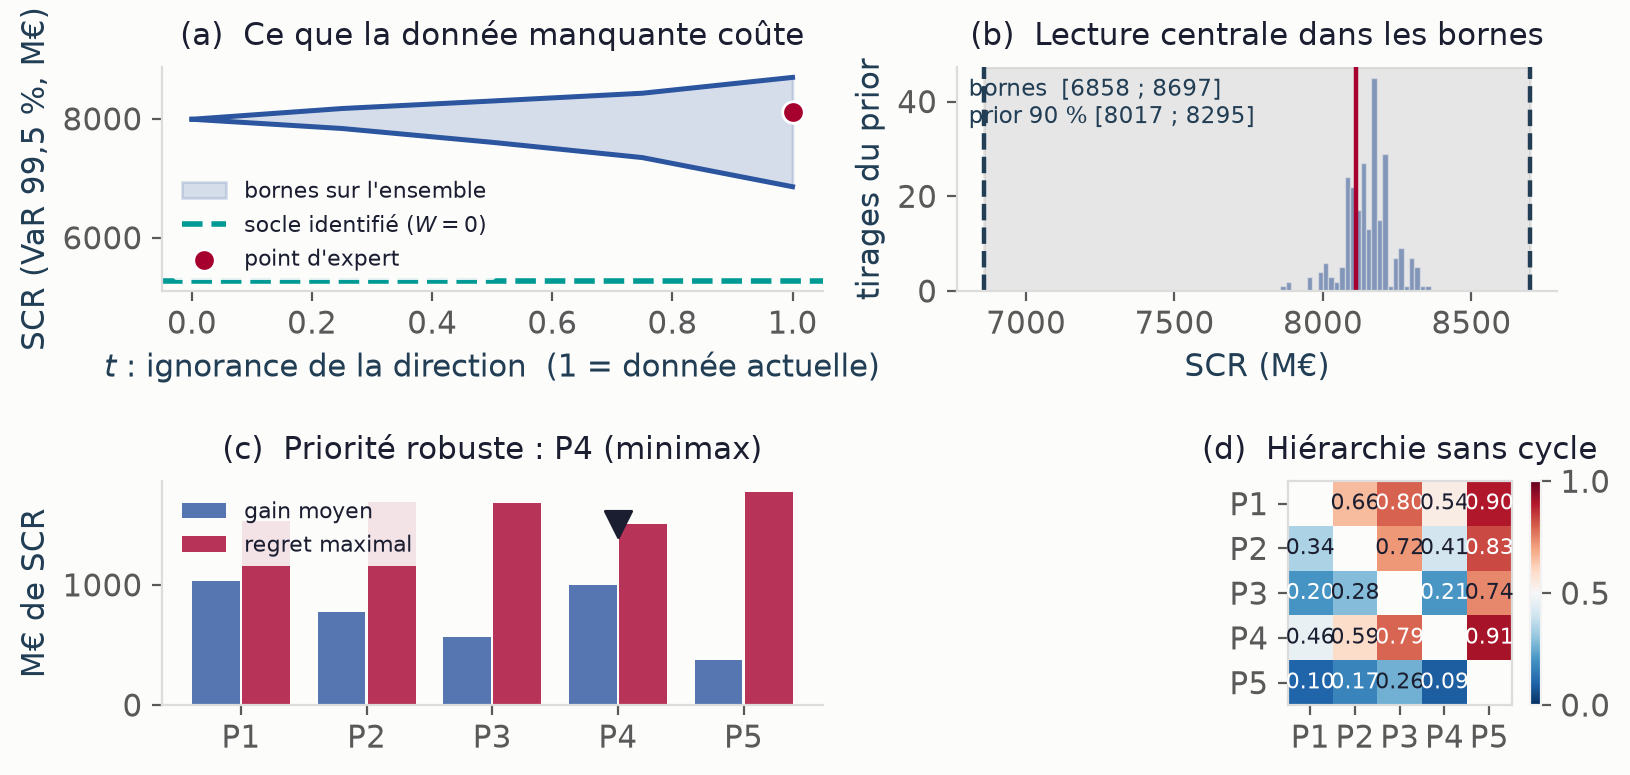
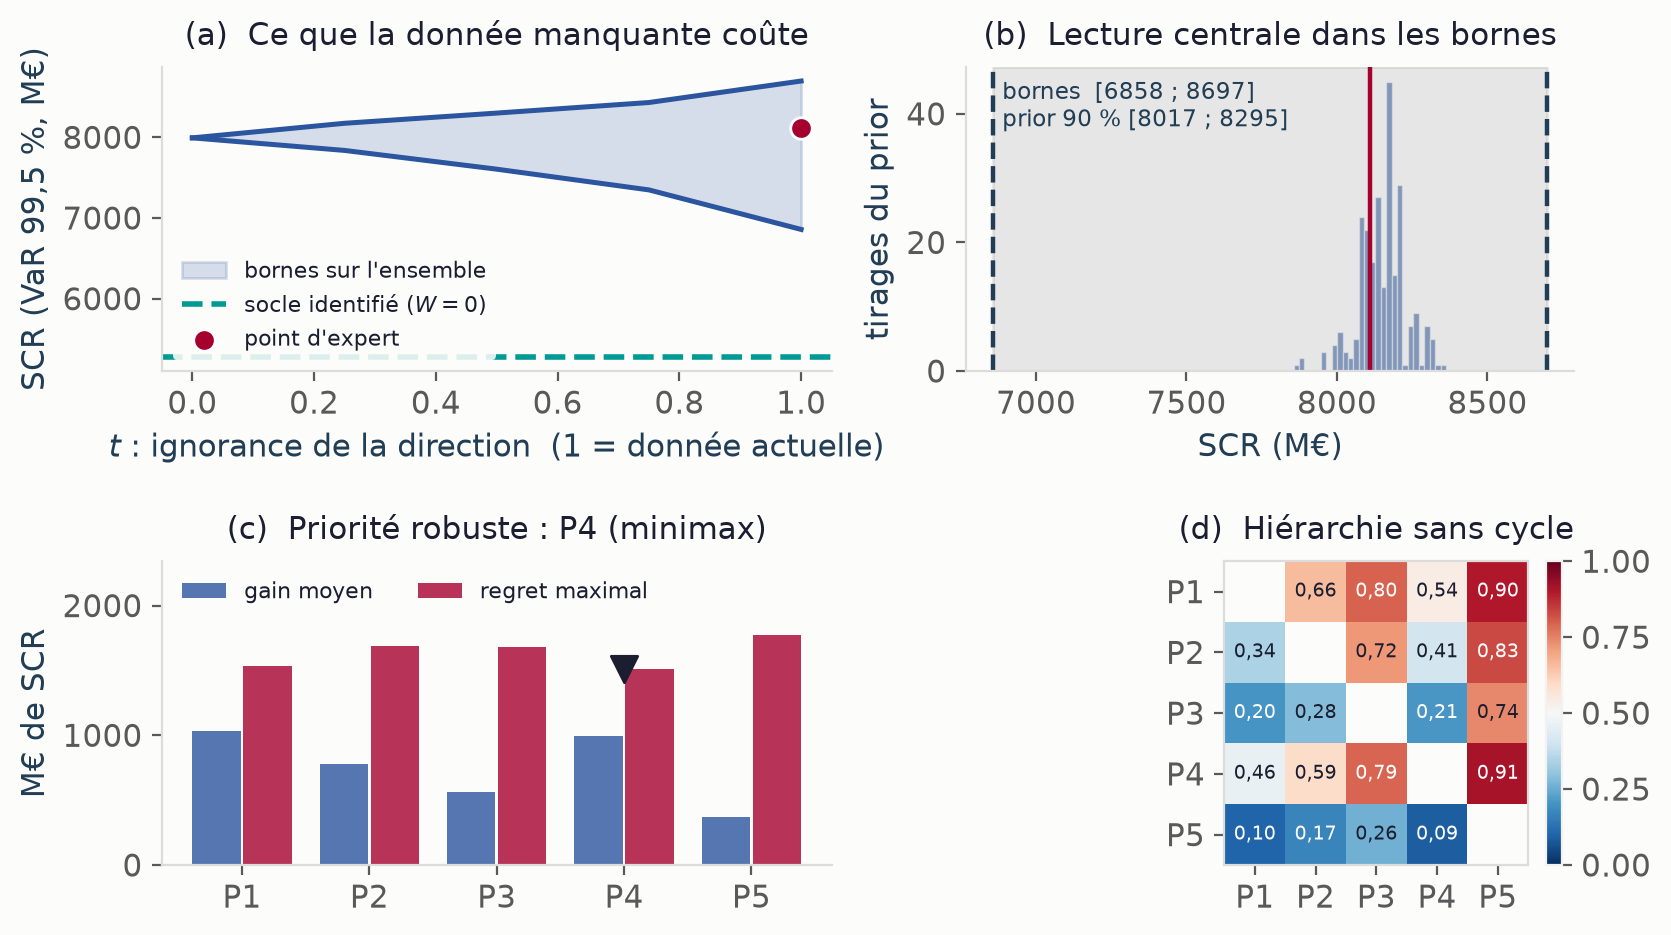
P1-9 : figures 9.1 et 8.1 reprises
Figure 9.1 (script 30) : carte de chaleur agrandie, etiquettes a virgule lisibles, encadre du
panneau (b) decolle du trait, legende du panneau (c) hors des barres. Figure 8.1 (script 40) : le
panneau de barres codees en dur et le panneau de texte seul sont remplaces par un nuage des energies
de Dirichlet calculees sur trois cents fonctions test, chaine posee contre symetrisee, avec la
production d'entropie. Sorties 30 et 40 inchangees ligne pour ligne.

diff --git a/exploratory/vasicek_lab/6_contagion/40_reversibilite_martingale.py b/exploratory/vasicek_lab/6_contagion/40_reversibilite_martingale.py
@@ -282,8 +282,11 @@ def _signe(v):
 
 _fr = mticker.FuncFormatter(lambda v, _p: _signe(v))
 
-fig, (ax1, ax2, ax3) = plt.subplots(1, 3, figsize=(7.4, 2.8), layout="constrained",
-                                    gridspec_kw=dict(width_ratios=[1.12, 0.92, 1.0]))
+# DEUX PANNEAUX ET NON TROIS, DEPUIS LE 17 SEPTEMBRE 2026. L'ancien panneau (b) tracait des
+# barres codees en dur (1 et 1, 1 et 0), et l'ancien (c) n'etait que du texte : aucun des deux
+# ne portait une donnee. Le (b) trace desormais les energies CALCULEES sur des fonctions test.
+fig, (ax1, ax2) = plt.subplots(1, 2, figsize=(7.0, 3.0), layout="constrained",
+                               gridspec_kw=dict(width_ratios=[1.1, 1.0]))
 fig.get_layout_engine().set(w_pad=0.03, h_pad=0.03, wspace=0.06)
 
 # (a) le courant J : matrice divergente, valeurs dans les cases
@@ -311,50 +314,32 @@ cb.ax.yaxis.set_major_formatter(_fr)
 cb.outline.set_edgecolor("#dcdcdc")
 cb.outline.set_linewidth(0.6)
 
-# (b) la fluctuation ne voit que S ; production d'entropie
-labels = ["énergie de\nfluctuation\n$\\mathcal{E}(f,f)$", "production\nd'entropie\n$\\sigma$"]
-posee = [1.0, 1.0]                     # fluctuation et entropie de la chaine posee (base 1)
-sym = [1.0, 0.0]                       # symetrisee : meme fluctuation, entropie nulle
-x = np.arange(2)
-ax2.bar(x - 0.19, posee, width=0.36, color=BLUE, alpha=0.9, label="chaîne posée")
-ax2.bar(x + 0.19, sym, width=0.36, color=GREEN, alpha=0.9, label="chaîne symétrisée")
-ax2.set_xticks(x); ax2.set_xticklabels(labels)
-ax2.tick_params(axis="x", length=0, pad=3)
-ax2.set_ylabel("valeur (chaîne posée = 1)")
+# (b) la fluctuation ne voit que S : energies calculees, chaine posee contre symetrisee.
+# Generateur DISTINCT de celui des impressions, pour ne pas deplacer la sortie versionnee.
+rng_fig = np.random.default_rng(20260917)
+e_p, e_s = [], []
+for _ in range(300):
+    f = rng_fig.standard_normal(NP_)
+    e_p.append(dirichlet(P, pi, f))
+    e_s.append(dirichlet(Ps, pi, f))
+e_p, e_s = np.array(e_p), np.array(e_s)
+hi = 1.05 * max(e_p.max(), e_s.max())
+ax2.plot([0, hi], [0, hi], color="#dcdcdc", lw=1.2, zorder=1)
+ax2.scatter(e_s, e_p, s=9, color=BLUE, alpha=0.75, edgecolor="none", zorder=2,
+            label="300 fonctions test $f$")
+ax2.set_xlim(0, hi); ax2.set_ylim(0, hi)
+_virg = mticker.FuncFormatter(lambda v, _p: f"{v:.1f}".replace(".", ","))
+ax2.xaxis.set_major_formatter(_virg); ax2.yaxis.set_major_formatter(_virg)
+ax2.set_xlabel("énergie, chaîne symétrisée $\\mathcal{E}_{S}(f,f)$")
+ax2.set_ylabel("énergie, chaîne posée $\\mathcal{E}_{P}(f,f)$")
 ax2.spines["top"].set_visible(False)
 ax2.spines["right"].set_visible(False)
-# BANDE HAUTE DEGAGEE : les barres culminent a 1, chaque commentaire passe au-dessus de son
-# groupe et la legende encore au-dessus. Aucun texte ne recouvre une barre.
-ax2.set_ylim(0, 1.75)
-ax2.set_yticks([0.0, 0.5, 1.0])
-ax2.set_yticklabels(["0", "0,5", "1,0"])
-ax2.legend(frameon=False, fontsize=7.5, loc="upper center", ncol=1, handlelength=1.2,
-           handletextpad=0.45, borderaxespad=0.15, labelspacing=0.25)
-ax2.text(0, 1.05, "identique :\nne voit que $S$", ha="center", va="bottom",
-         fontsize=7.5, color=MUTED, style="italic")
-ax2.text(1, 1.05, "s'efface :\n$\\sigma \\to 0$", ha="center", va="bottom",
-         fontsize=7.5, color=MUTED, style="italic")
-ax2.set_title("(b)  La martingale ne voit\nque $S$, pas la direction $A$",
+ax2.text(0.04, 0.96,
+         f"production d'entropie\nchaîne posée : {sigma:.4f}\nchaîne symétrisée : 0".replace(".", ","),
+         transform=ax2.transAxes, ha="left", va="top", fontsize=7.8, color=INK2)
+ax2.legend(frameon=False, fontsize=7.5, loc="lower right", handletextpad=0.3)
+ax2.set_title("(b)  L'énergie ne voit que $S$ ;\nseule l'entropie voit la direction",
               fontsize=T_PAN, color=INK)
-
-# (c) le schema du renversement du temps
-ax3.axis("off")
-ax3.set_xlim(0, 1); ax3.set_ylim(0, 1)
-ax3.set_title("(c)  Renversement du temps :\n$S$ invariante, $A$ change de signe",
-              fontsize=T_PAN, color=INK)
-ax3.text(0.25, 0.97, "temps $t$", ha="center", va="top", fontsize=8, color=INK2)
-ax3.text(0.75, 0.97, "temps renversé", ha="center", va="top", fontsize=8, color=INK2)
-ax3.annotate("", xy=(0.43, 0.80), xytext=(0.07, 0.80),
-             arrowprops=dict(arrowstyle="->", color=INK2, lw=1.2))
-ax3.annotate("", xy=(0.57, 0.80), xytext=(0.93, 0.80),
-             arrowprops=dict(arrowstyle="->", color=INK2, lw=1.2))
-ax3.text(0.25, 0.60, "$P = S + A$", ha="center", va="center", fontsize=11, color=INK)
-ax3.text(0.75, 0.60, "$\\tilde{P} = S - A$", ha="center", va="center", fontsize=11, color=INK)
-ax3.text(0.5, 0.39, "$S$ = co-occurrence,  $A$ = direction", ha="center", va="center",
-         fontsize=8, color=INK2)
-ax3.text(0.5, 0.02, "$S$ : identifiée.  $A$ : placebo $z=-0{,}33$,\n"
-                    "compatible avec $\\sigma = 0$ (réversible).",
-         ha="center", va="bottom", fontsize=8, color=ACCENT)
 
 outdir = os.path.join(os.path.dirname(_HERE), "figures")
 os.makedirs(outdir, exist_ok=True)

diff --git a/exploratory/vasicek_lab/6_contagion/30_identification_partielle_W.py b/exploratory/vasicek_lab/6_contagion/30_identification_partielle_W.py
@@ -245,7 +245,7 @@ ACCENT, BLUE, GREEN = "#a6002e", "#2b559f", "#009a94"
 
 # quatre panneaux : une grille 2x2 tient en portrait la ou une rangee de quatre
 # imposerait une page tournee (rapport h/l de 0,89 contre 0,24).
-fig, ((ax1, ax2), (ax3, ax4)) = plt.subplots(2, 2, figsize=(8.4, 4.0),
+fig, ((ax1, ax2), (ax3, ax4)) = plt.subplots(2, 2, figsize=(8.4, 4.8),
                                              gridspec_kw={"width_ratios": [1.1, 1]})
 ts = np.array(T_GRID)
 los = np.array([bounds[t][0] for t in T_GRID])
@@ -272,7 +272,7 @@ for v, c in [(lo1, INK2), (hi1, INK2), (SCR_EXPERT, ACCENT)]:
 ax2.set_xlabel("SCR (M€)", color=INK2)
 ax2.set_ylabel("tirages du prior", color=INK2)
 ax2.set_title("(b)  Lecture centrale dans les bornes", fontsize=11, color=INK, pad=8)
-ax2.text(0.02, 0.96, f"bornes  [{lo1:.0f} ; {hi1:.0f}]\nprior 90 % [{q05:.0f} ; {q95:.0f}]",
+ax2.text(0.06, 0.96, f"bornes  [{lo1:.0f} ; {hi1:.0f}]\nprior 90 % [{q05:.0f} ; {q95:.0f}]",
          transform=ax2.transAxes, fontsize=8.2, color=INK2, va="top")
 
 xs = np.arange(pid.NP_)
@@ -283,13 +283,14 @@ ax3.set_xticks(xs)
 ax3.set_xticklabels([f"P{p}" for p in pid.PIL])
 ax3.set_ylabel("M€ de SCR", color=INK2)
 ax3.set_title(f"(c)  Priorité robuste : P{pid.PIL[j1]} (minimax)", fontsize=11, color=INK, pad=8)
-ax3.legend(frameon=True, facecolor="#fcfcfb", edgecolor="none", framealpha=0.88, fontsize=8)
+ax3.set_ylim(0, 1.32 * max(maxreg.max(), benefits.mean(axis=0).max()))
+ax3.legend(frameon=False, fontsize=8, ncol=2, loc="upper left")
 
 im = ax4.imshow(np.where(np.eye(pid.NP_) == 1, np.nan, domin), cmap="RdBu_r", vmin=0, vmax=1)
 for j in range(pid.NP_):
     for k in range(pid.NP_):
         if j != k:
-            ax4.text(k, j, f"{domin[j, k]:.2f}", ha="center", va="center", fontsize=8,
+            ax4.text(k, j, f"{domin[j, k]:.2f}".replace(".", ","), ha="center", va="center", fontsize=6.8,
                      color=INK if 0.25 < domin[j, k] < 0.75 else "#fff")
 ax4.set_xticks(xs); ax4.set_xticklabels([f"P{p}" for p in pid.PIL])
 ax4.set_yticks(xs); ax4.set_yticklabels([f"P{p}" for p in pid.PIL])

diff --git a/exploratory/memoire_cascade/chapitres/09_identifiabilite.tex b/exploratory/memoire_cascade/chapitres/09_identifiabilite.tex
@@ -210,11 +210,11 @@ fournissent, non une impossibilité de principe.
   \figover{Z11_reversibilite_martingale.png}
   \caption{La direction $A$ comme courant irréversible, et
 pourquoi une statistique invariante par renversement ne peut pas la voir. (a)~le courant $J_{jk}=\pi_jP_{jk}-\pi_kP_{kj}$
-est non nul : le modèle porte bien une direction. (b)~l'énergie de fluctuation, c'est-à-dire
-la variation quadratique de la martingale, est \emph{identique} pour la chaîne posée et pour sa
-symétrisée : elle ne voit que $S$. La production d'entropie, elle, s'efface à la symétrisation.
-(c)~le renversement du temps laisse $S$ intacte et retourne le signe de $A$ : pour une chaîne
-stationnaire, une statistique invariante par renversement ne peut pas identifier ce courant.}
+est non nul : le modèle porte bien une direction. (b)~pour trois cents fonctions test tirées au
+hasard, l'énergie de fluctuation, c'est-à-dire la variation quadratique de la martingale, est la
+même pour la chaîne posée et pour sa symétrisée : les points tombent sur la diagonale, elle ne voit
+que $S$. Seule la production d'entropie distingue les deux chaînes, et elle s'annule à la
+symétrisation.}
   \label{fig:reversibilite}
 \end{figure}
 % SOURCES-SCRIPTS: 40
